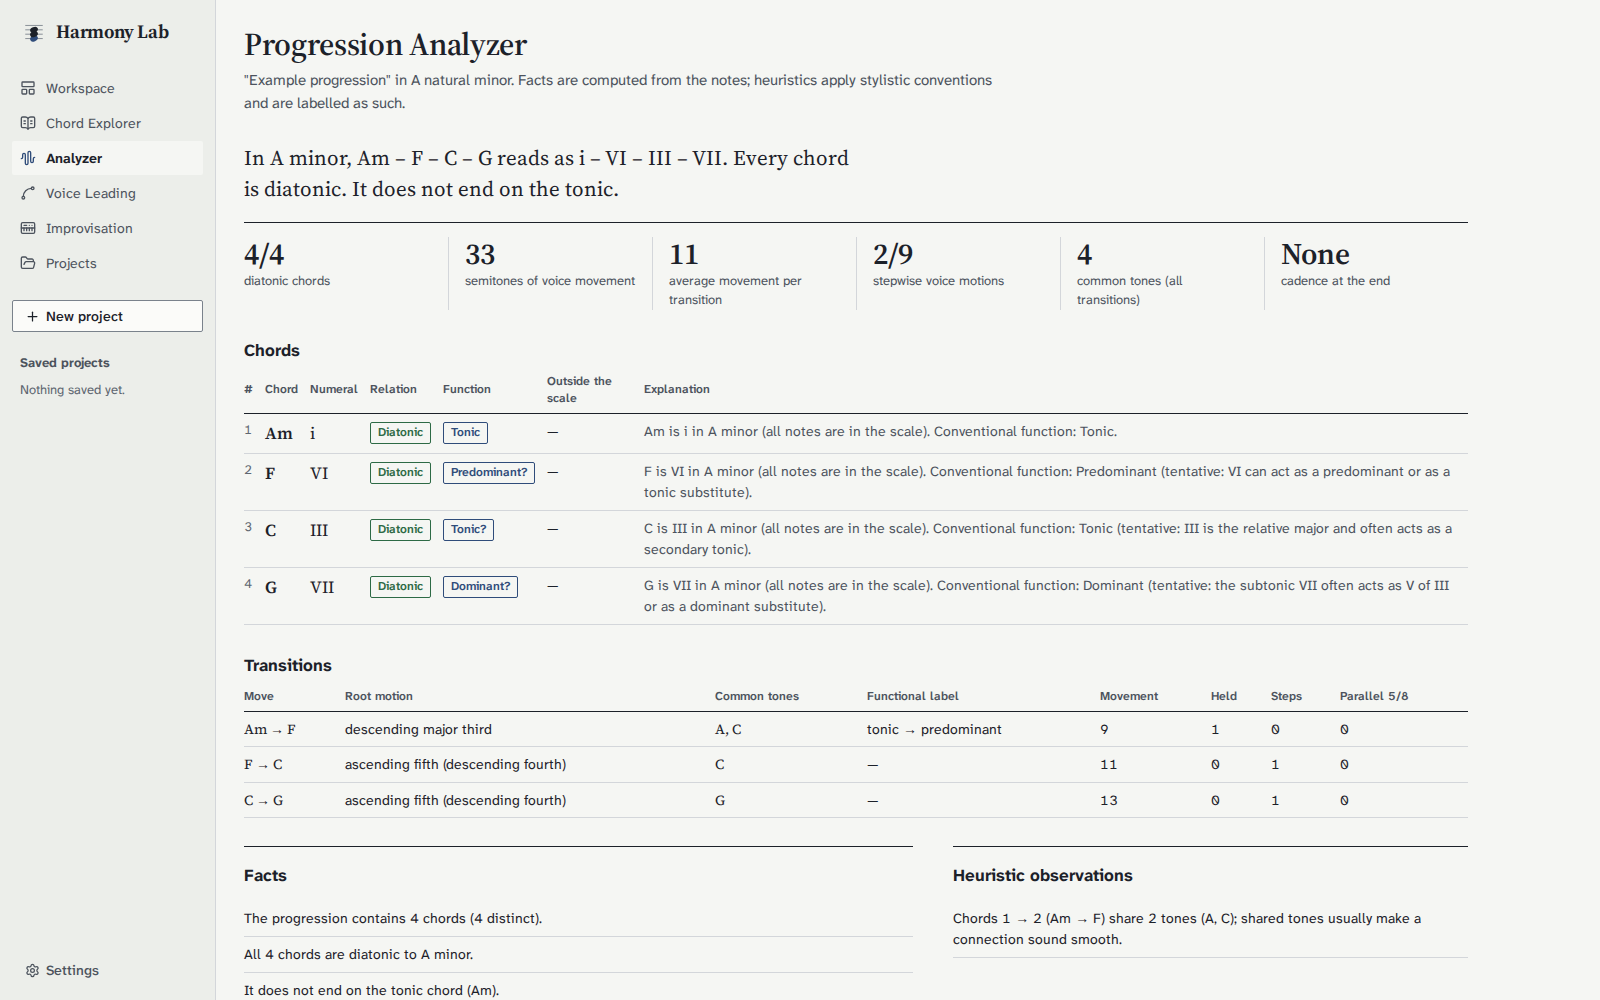
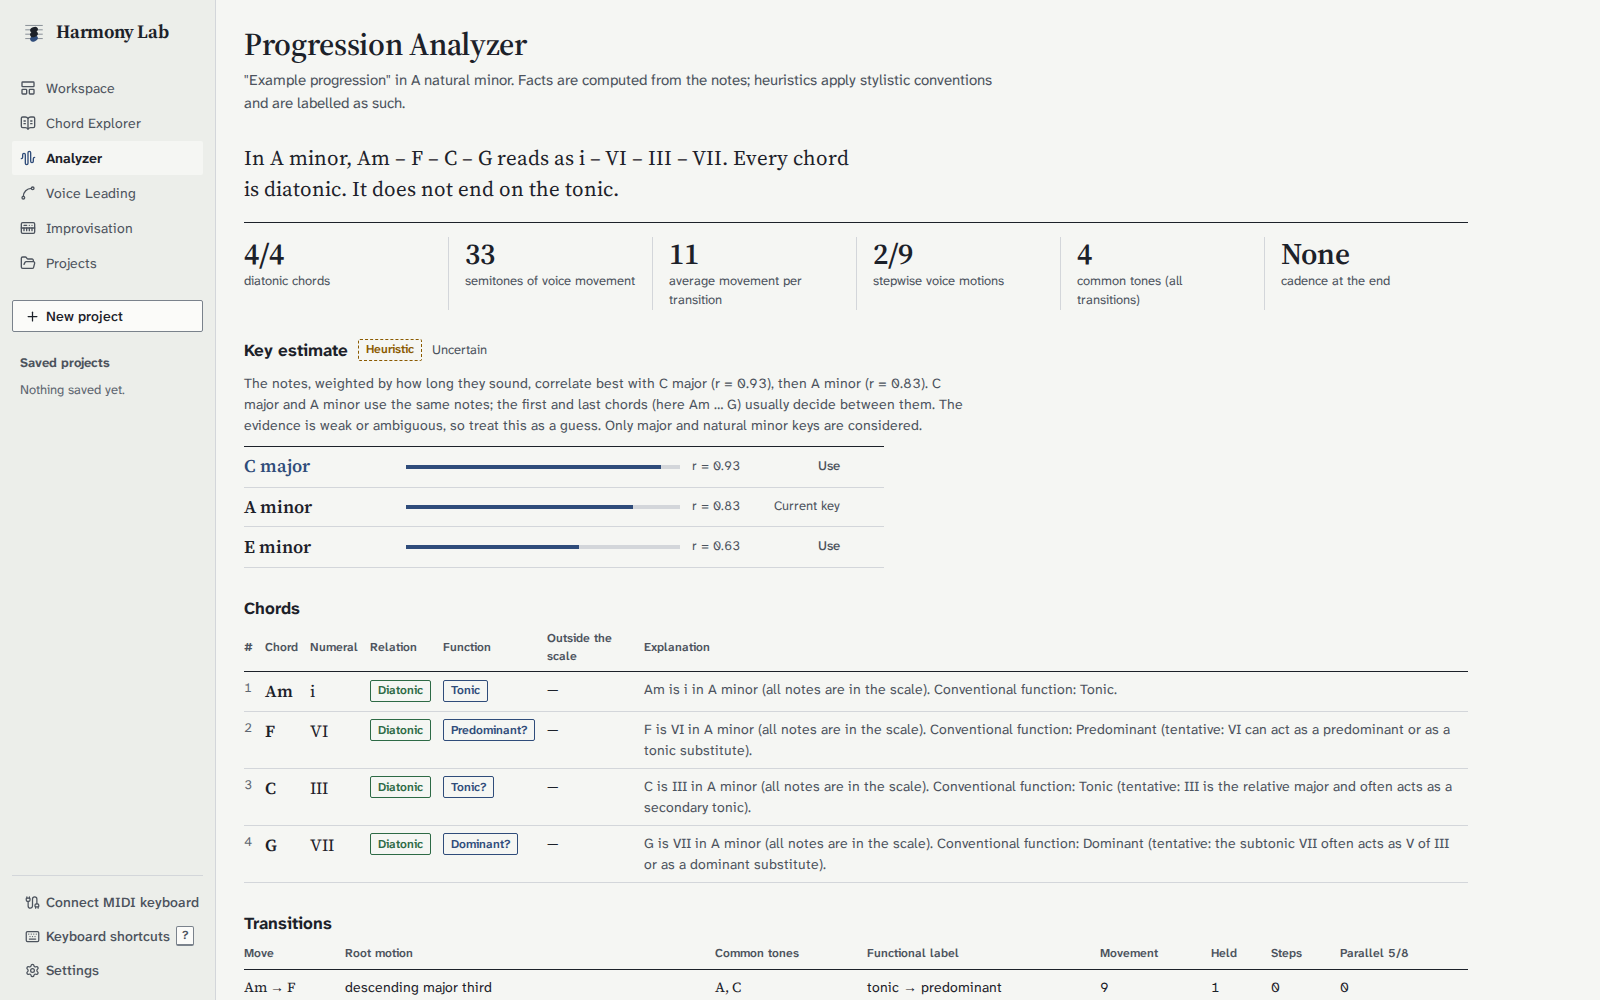
Update Harmony Lab page: sounds, MIDI, extended chords, modes and key detection

diff --git a/src/content/projects/harmony-lab.md b/src/content/projects/harmony-lab.md
@@ -1,7 +1,7 @@
 ---
 title: Harmony Lab
-summary: Interactive harmony workspace for musicians, with a deterministic music theory engine in Java, a voice-leading optimizer, explained chord suggestions, an improvisation mode and in-browser playback.
-stack: [Java 21, Spring Boot, PostgreSQL, Flyway, JPA, React, TypeScript, Tone.js, Testcontainers, Docker Compose, GitHub Actions]
+summary: Interactive harmony workspace for musicians, with a deterministic music theory engine in Java (extended chords, modes, key detection), a voice-leading optimizer, explained chord suggestions, MIDI keyboard and file support, and in-browser playback with several sounds.
+stack: [Java 21, Spring Boot, PostgreSQL, Flyway, JPA, React, TypeScript, Tone.js, Web MIDI, Testcontainers, Docker Compose, GitHub Actions]
 repo: https://github.com/matisdpz/harmony-lab
 cover: ../../assets/projects/harmony-lab/workspace.png
 coverAlt: Harmony workspace with the progression drawn as a lead-sheet line, Roman numerals under each chord, a piano keyboard and the chord inspector
@@ -20,10 +20,13 @@ The application does not depend on any external service.
 
 ## What it does
 
-- Builds a chord progression from symbols (`Dm7`, `G/B`, `F#m7b5`) or pickers. Chords can be
-  edited, reordered, duplicated and played, with undo and redo.
+- Builds a chord progression from symbols (`Dm7`, `G/B`, `F#m7b5`, `G13`, `C7alt`) or pickers. Chords
+  can be edited, reordered, duplicated, transposed and played, with undo and redo. Extended (9, 11, 13)
+  and altered dominant chords are supported.
 - Highlights the selected chord on an interactive piano keyboard, with the root marked and
   notes spelled correctly (E7 contains G#, not Ab).
+- Works in major, natural, harmonic and melodic minor, and the five other church modes, and estimates
+  the key of a progression (Krumhansl–Schmuckler) as an optional hint.
 - Analyses the progression in a chosen key: Roman numerals, diatonic or borrowed chords,
   secondary dominants, cadences and voice movement. Each statement is labelled as a fact or
   a stylistic heuristic.
@@ -34,6 +37,10 @@ The application does not depend on any external service.
 - Loops preset or custom progressions for improvisation. For the chord that is sounding,
   the keyboard shows the chord tones, the safe scale notes and the tension notes (in red),
   each with a reason. Notes can be played along with the mouse or the computer keyboard.
+- Plays with a sampled grand piano or five synthesised sounds, with a rhythm per chord (block, arpeggios,
+  Alberti bass…), a count-in and a metronome.
+- Connects a MIDI keyboard: notes sound with the chosen instrument, a held chord is named and can be
+  added in one click. Progressions export to and import from MIDI files.
 - Saves projects in PostgreSQL.
 - Draws the progression like a line of a lead sheet: one measure per chord, sized by its
   number of beats, with a playhead during playback. A day and a night theme are available.
@@ -96,27 +103,39 @@ while the API keeps plain `b` and `#`. The night theme reuses the same colour to
 CSS `light-dark()`, and the keyboard stays ivory and black in both themes because it stands
 for a real instrument.
 
+**Extended chords and modes without special cases.** An extended or altered chord is just a longer list
+of intervals (the ♭9 is a compound interval of 13 semitones), so spelling, inversions, identification and
+Roman numerals needed no new code paths. Rules about dominants ask one method (`isDominantType`) instead
+of checking a single chord type. A mode is a scale plus two properties: whether tonal functions apply
+(not in Dorian or Lydian, where the app labels only the tonic) and which key signature it uses (harmonic
+minor keeps the natural minor's).
+
+**Key detection that admits doubt.** The key estimate correlates the duration-weighted notes with the
+Krumhansl–Kessler profiles. C major and A minor contain the same notes, so when the two best keys are
+relatives and close, the app reports low confidence and does not suggest a change; it never changes the
+key on its own.
+
 **Audio as a singleton.** Tone.js is loaded on the first click (browsers block audio
 before a user gesture), a single engine exists per page, and progressions are scheduled on
 the transport so tempo changes apply during playback.
 
 ## Testing and CI
 
-- 191 backend unit tests for the domain (chords, intervals, keys, Roman numerals, voice
-  leading, suggestions, improvisation guide), services and controllers.
-- 12 integration tests against a real PostgreSQL database using Testcontainers: ordered
+- 236 backend unit tests for the domain (chords, intervals, keys, Roman numerals, voice
+  leading, suggestions, improvisation guide, extended chords, modes, key detection, transposition),
+  services and controllers.
+- 16 integration tests against a real PostgreSQL database using Testcontainers: ordered
   persistence, validation errors, conflicts, atomic updates and constraints.
-- 56 frontend tests with Vitest and React Testing Library, covering the editor, keyboard
-  highlights, reordering, form validation, API errors, the improvisation page, the display of
-  accidentals and the theme setting.
+- 85 frontend tests with Vitest and React Testing Library, covering the editor, keyboard
+  highlights, reordering, form validation, API errors, the improvisation page, rhythm patterns, MIDI
+  file import/export, a simulated MIDI keyboard, transposition and the theme setting.
 - GitHub Actions runs lint, type checking, all tests and the Docker image builds on every push.
 
 ## Limitations
 
 - Single-user and meant to run locally: there is no authentication.
-- The theory scope is major and natural minor keys and 15 chord types, with no extended or
-  altered chords.
-- The sound is a synthesized electric-piano-like voice, not a sampled piano.
+- Key detection only considers major and minor keys, and MIDI import recognises chords, not melodies.
+- Web MIDI is not available in Safari.
 
 ## Screenshots
 
